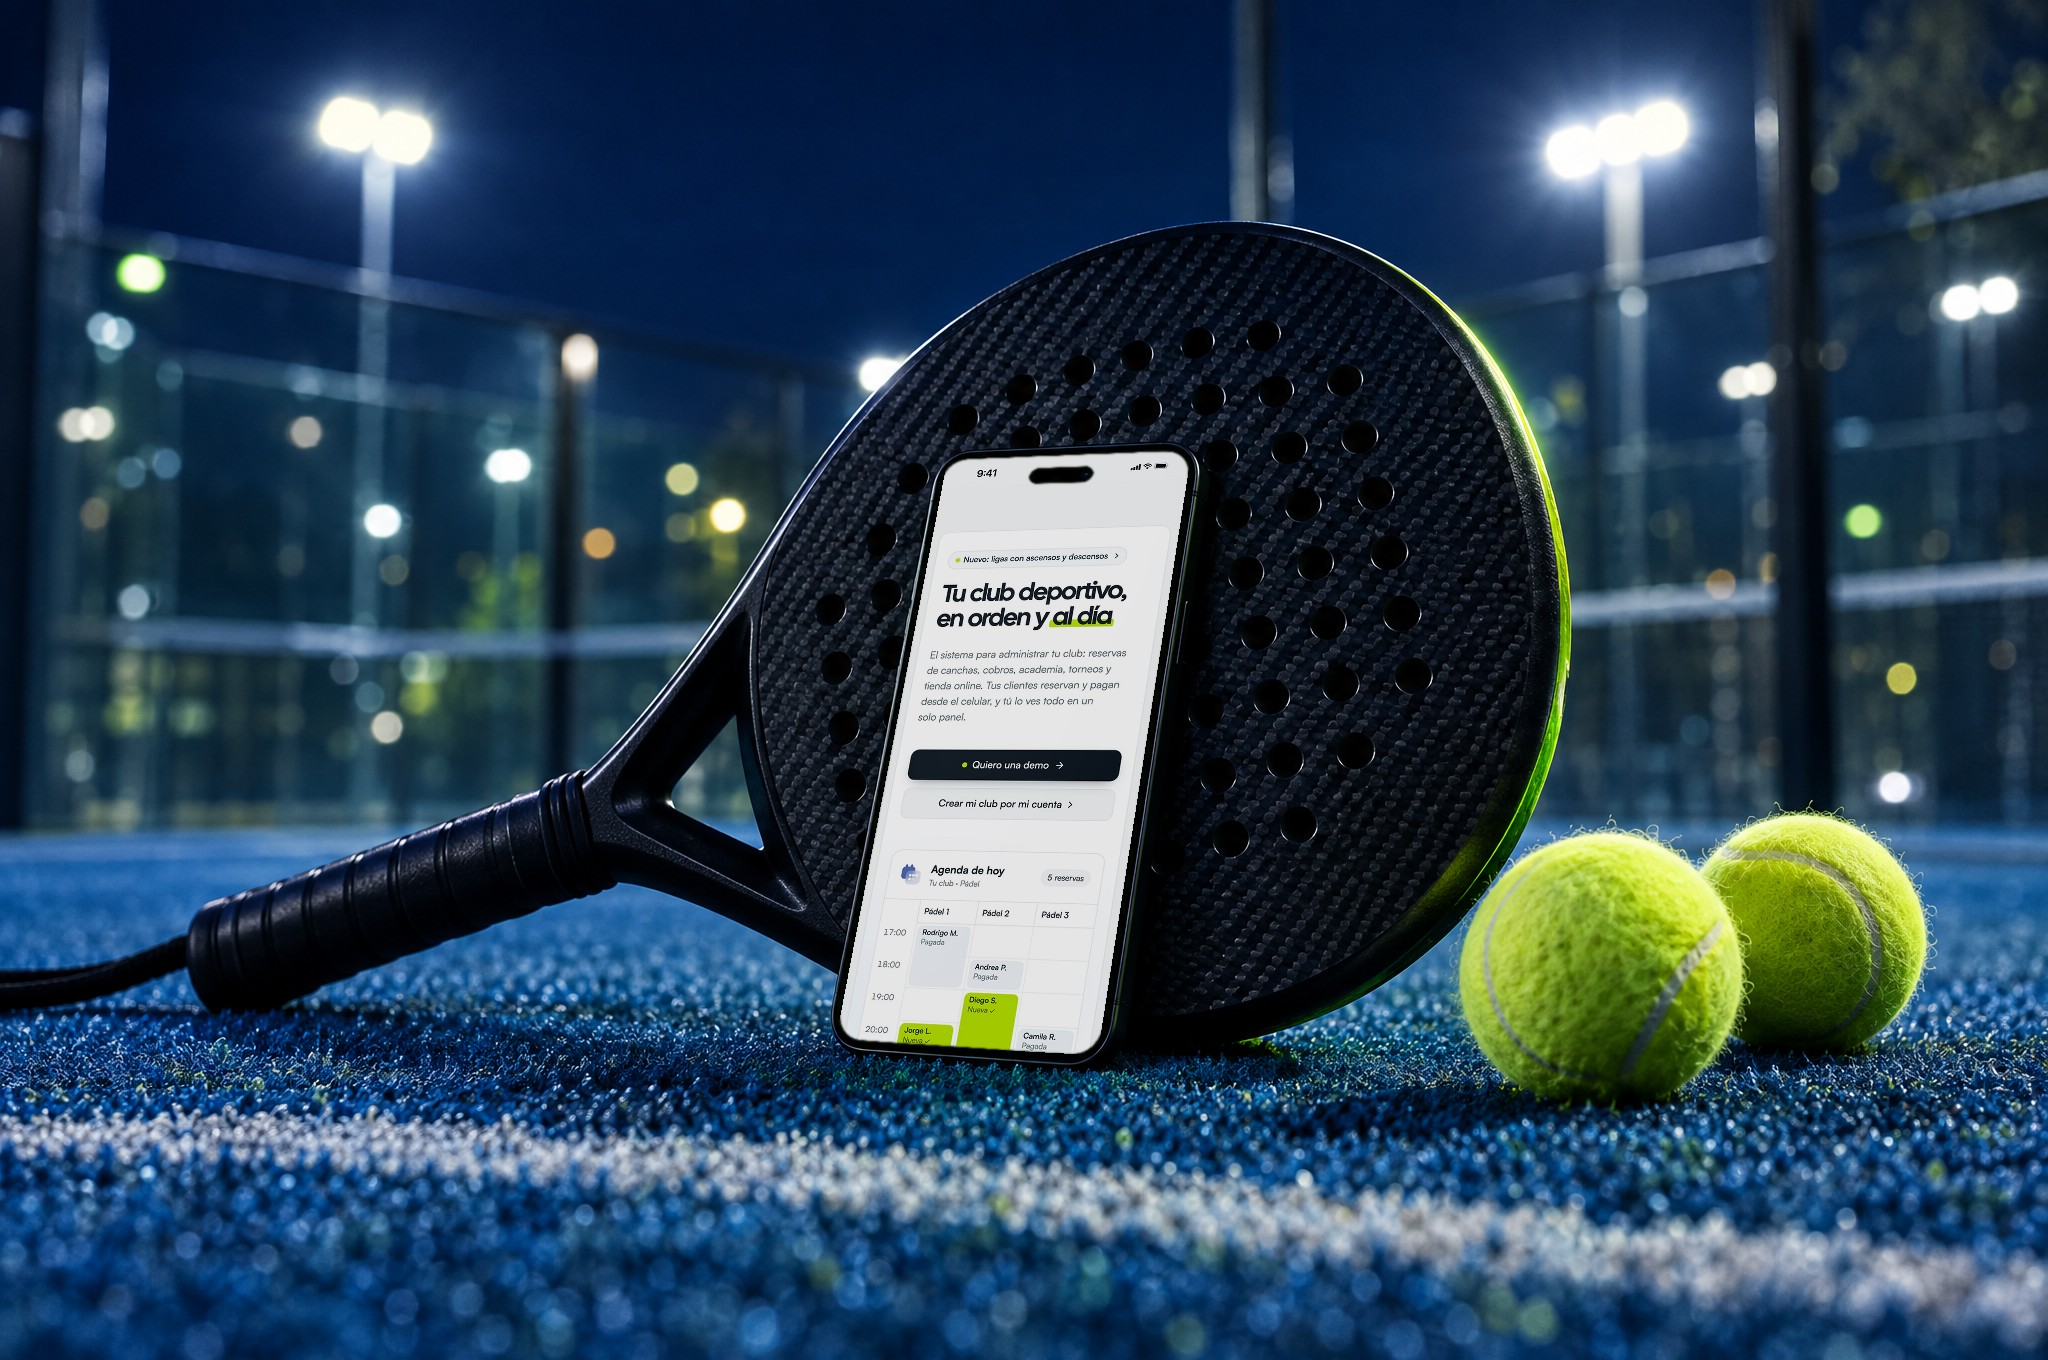
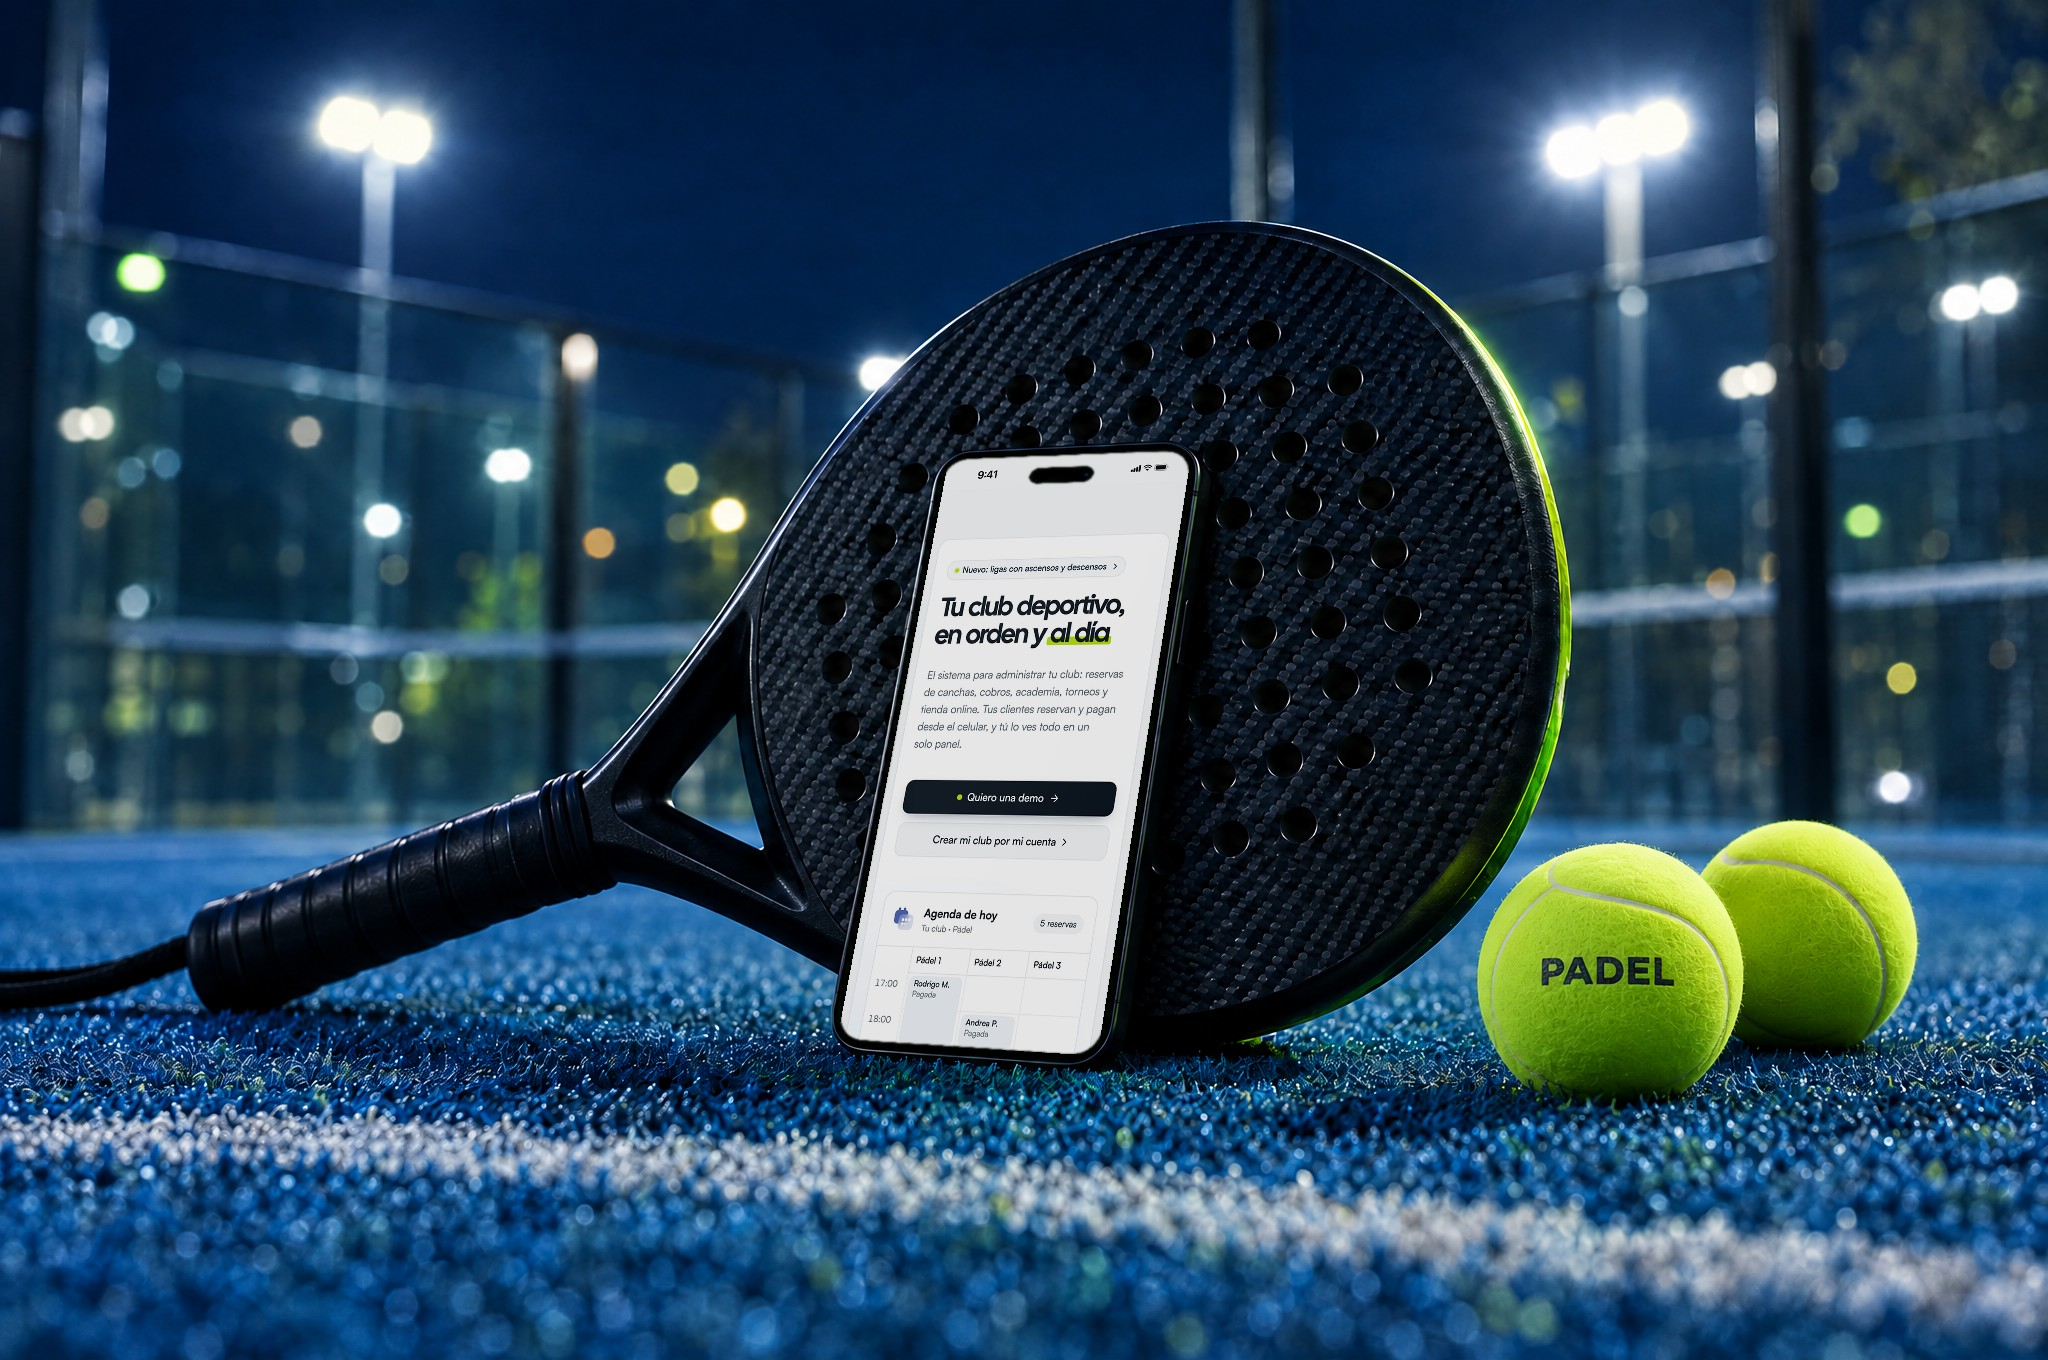
fix(portafolio): las portadas del portafolio pasan al home, y la pala de padel con pelotas de padel
Alexander prefiere las portadas del carrusel tambien en la seccion de destacados
del home, salvo Vendiq, que conserva su diagrama en perspectiva. Como las del
portafolio son 3:2 y la tarjeta es 16:10, no se referencian directas: se recortan
midiendo antes donde esta el mockup para no cortarlo (Rematch pierde 52 px arriba
y 28 abajo; LumioLearn y Bookit, 80 abajo, todo fondo).

La escena de Rematch tenia una pala de padel con pelotas de TENIS: pelusa larga
con hilos sueltos y costura gruesa y blanquecina. Corregida editando la escena
con su pantalla verde como referencia, no regenerandola, asi el cuadrilatero de
la pantalla quedo a 2 px del original y se reutilizo el encuadre.

Ademas, la pantalla del celular se armaba al aspecto del hueco medido (0.42) en
vez del aspecto real del telefono (0.462), que es el error que COMPOSITOR.md
documentaba al reves y que achataba la tipografia un 9 por ciento.

Fuera las portadas que quedaron sin uso.

diff --git a/src/components/axium/highlights-section.tsx b/src/components/axium/highlights-section.tsx
@@ -44,11 +44,10 @@ const HIGHLIGHTS: readonly [Highlight, ...Highlight[]] = [
     url: "https://rematch.pe",
     caseHref: "/casos-de-exito/rematch",
     domain: "rematch.pe",
-    // Cantidad: cuatro pistas de pádel de cristal a plomo, de noche, y encima la
-    // «Agenda de hoy» entera de rematch.pe — cuatro canchas, cinco reservas, las
-    // nuevas en lima. v7 (2026-09-25): la v6 (fondo liso + llaves + tarjetita)
-    // tenía la misma anatomía que Bookit
-    cover: "/images/highlights/rematch-v7.jpg",
+    // La misma portada que en /portafolio (Alexander, 2026-09-25: «me gustan más»),
+    // recortada a 16:10 para que la tarjeta no la corte sola: el celular sobre la
+    // pala de pádel, de noche, con el inicio móvil de rematch.pe
+    cover: "/images/highlights/rematch-v8.jpg",
     logo: {
       src: "/images/highlights/logos/rematch.png",
       width: 939,
@@ -60,7 +59,9 @@ const HIGHLIGHTS: readonly [Highlight, ...Highlight[]] = [
     url: "https://lumiolearn.com",
     caseHref: "/casos-de-exito/lumiolearn",
     domain: "lumiolearn.com",
-    cover: "/images/highlights/lumiolearn-v11.jpg",
+    // La misma portada que en /portafolio: la tableta en plano cenital sobre el
+    // escritorio violeta
+    cover: "/images/highlights/lumiolearn-v12.jpg",
     logo: {
       src: "/images/highlights/logos/lumiolearn.png",
       width: 757,
@@ -72,13 +73,8 @@ const HIGHLIGHTS: readonly [Highlight, ...Highlight[]] = [
     url: "https://bookit.com.pe",
     caseHref: "/casos-de-exito/bookit",
     domain: "bookit.com.pe",
-    // Singularidad, justo lo contrario de Rematch: una fila de losas de pino y
-    // UNA que sale encendida en verde —una hora que se aparta— con el selector
-    // real de bookit.com.pe apoyado en ella: servicio, profesional, día y horas
-    // libres, con el 16:30 elegido en brote. El chip verde y la losa encendida
-    // son el mismo gesto. v9 (2026-09-25): la v8 mostraba la cita ya hecha, que
-    // es el resultado y no la web donde se reserva
-    cover: "/images/highlights/bookit-v9.jpg",
+    // La misma portada que en /portafolio: la laptop sobre el mármol verde
+    cover: "/images/highlights/bookit-v10.jpg",
     logo: {
       src: "/images/highlights/logos/bookit-v2.png",
       width: 1600,

diff --git a/.claude/skills/portafolio-axium/CASO-REMATCH.md b/.claude/skills/portafolio-axium/CASO-REMATCH.md
@@ -253,3 +253,51 @@ a 3x) y `capturas-saas/rematch/piezas-2026-09/` (secciones por elemento, móvile
 
 Textos: alts de tipografía, paleta, portada, secciones, móviles, precios y Live reescritos, y el
 «Enfoque» ahora cuenta las dos puertas (rematch.pe para el club, Rematch Live para el jugador), en es/en/pt.
+
+## 10. Pelotas de tenis en una escena de pádel (2026-09-25)
+
+Alexander, sobre la portada: *«si es paleta de pádel, las bolas deben ser de pádel; si es de
+tenis, pelotas de tenis»*.
+
+**La incoherencia**: en `escenas/rematch-portada-raqueta.png` todo era pádel —pala maciza
+perforada de carbono, pista con paredes de vidrio, césped azul, y en la propia pantalla «Tu club ·
+Pádel» con las columnas Pádel 1/2/3— menos las dos pelotas, que eran **de tenis**: pelusa larga y
+desordenada con halo de hilos sueltos (pelota gastada de tenis), costura gruesa y blanquecina de
+tenis, y de hecho mal dibujada (en la de delante la costura era una raya que no cerraba).
+
+**El arreglo, en un solo tiro**: en vez de rehacer la escena se **editó** la escena verde original
+pasándola como `image_references` a `gpt_image_2_5` (high, 2k, 3:2) y pidiendo **solo** el cambio
+de las pelotas: pelusa corta y densa sin hilos sueltos, costura fina y de poco contraste, un poco
+más blandas, y la palabra **PADEL** impresa en la de delante. El prompt repite «reproduce la
+referencia exactamente» y marca como CRÍTICO que la pantalla siga siendo verde liso #00FF00, mate
+y vacía. Salió a la primera: el cuadrilátero verde quedó a ±2 px del original
+((950,462) (1190,452) (1097,1052) (839,1038) contra (948,463) (1190,452) (1097,1052) (838,1038)),
+así que la caja y el encuadre se reutilizaron tal cual. Escena nueva:
+`escenas/rematch-portada-raqueta-v2.png`. **Coste: 2,75 créditos** (no 3: el preflight `get_cost`
+de `gpt_image_2_5` high 2k da 2,75). Saldo 7,77 → 5,02. El segundo tiro del presupuesto no se gastó.
+
+**La pantalla, rehecha al aspecto real del celular.** De paso se aplicó la lección del mismo día
+(COMPOSITOR.md § «Celular en una escena»): `pantalla-celular-rematch.html` estaba a 1170×2786, el
+aspecto del **hueco medido** (0,42). El celular está girado sobre su eje vertical y ese 0,42 es el
+escorzo, que la homografía ya aplica; armarla así achataba la tipografía un 9 % y metía 879 px CSS
+de página, más de lo que cabe en un iPhone real. Ahora va a **1170×2532** (0,462, el aspecto real)
+y se compone con `--sin-recorte`: 794 px CSS de página, que es justo lo que muestra el viewport de
+un iPhone 15 Pro. Se ve menos agenda (cabecera + 17:00 y 18:00) pero la tipografía es la correcta.
+
+Comando final:
+
+```
+python3 scripts/componer_pantalla.py \
+  capturas-saas/escenas/rematch-portada-raqueta-v2.png pantalla.png salida.jpg \
+  --bordes --caja 800,420,1210,1090 --ancla arriba --brillo 0.9 --sin-recorte
+```
+
+Verificado: 0 píxeles de verde residual dentro de la caja, las cuatro esquinas redondeadas limpias
+y sin inclinación, y la pieza funciona a 2048 y a 360 (a 360 «PADEL» aún se lee). Sustituidos los
+tres archivos —`proyects/rematch/rematch-portada-v3.jpg`, `highlights/rematch-v8.jpg` (recorte
+16:10 desde y=52) y la copia `escenas/mock-rematch-portada-v3.jpg`— sin cambiar rutas, así que hubo
+que borrar `.next/cache/images` para que el dev server dejara de servir la versión vieja.
+
+**Regla que queda**: una escena generada tiene que ser coherente en *todo* el atrezo, no solo en el
+objeto principal. Antes de dar por buena una escena deportiva, mirar a zoom pelota, superficie,
+cancha del fondo y raqueta, y comprobar que sean del mismo deporte.

diff --git a/.claude/skills/portafolio-axium/HIGHLIGHTS-HOME.md b/.claude/skills/portafolio-axium/HIGHLIGHTS-HOME.md
@@ -375,3 +375,30 @@ Descartes de pieza: `bookit/pieza-reserva.png` (es la marca vieja, azul marino);
 elegir; `bookit-servicios.png` (la lista de servicios) — dice «catálogo», no «reserva». Las
 demos `tuconsultorio.bookit.com.pe` y `demo.bookit.com.pe` no resuelven, así que el selector del
 propio bookit.com.pe es la UI de reserva real disponible.
+
+#### Rematch v8 corregida el mismo día: pelotas de pádel, no de tenis (2026-09-25)
+
+`highlights/rematch-v8.jpg` es el recorte 16:10 (2048×1280 desde y=52) de la portada del carrusel,
+así que hereda cualquier arreglo de esa portada. Alexander: *«si es paleta de pádel, las bolas
+deben ser de pádel; si es de tenis, pelotas de tenis»*.
+
+La escena era toda de pádel —pala maciza perforada, pista de vidrio, césped azul— menos las dos
+pelotas, que eran de tenis: pelusa larga con halo de hilos sueltos y costura gruesa y blanquecina.
+Se editó la escena verde original en Higgsfield pasándola como referencia y pidiendo solo las
+pelotas (pelusa corta y densa, costura fina, y **PADEL** impreso en la de delante), conservando
+encuadre, luz y la pantalla verde. Un solo tiro, **2,75 créditos**. Detalle y comando en
+CASO-REMATCH.md § 10.
+
+Dos cosas que valen para el home:
+
+- **El recorte 16:10 desde y=52 sigue sirviendo**: no corta ni la parte alta de la pala ni las
+  pelotas, y a 360 px de ancho —el tamaño real de la tarjeta en el móvil— «PADEL» todavía se lee.
+  Es lo que hace que la corrección se note en el home y no solo en /portafolio.
+- **Reemplazar un archivo sin cambiar de nombre obliga a limpiar la caché**: `/_next/image` seguía
+  sirviendo la versión con pelotas de tenis hasta borrar `.next/cache/images`. Ya estaba en
+  COMPOSITOR.md; acá volvió a pasar.
+
+La pantalla del celular se rehízo además al aspecto real del dispositivo (1170×2532) en vez del
+hueco medido (0,42): la tipografía deja de salir achatada un 9 %. Se ve algo menos de la agenda,
+pero a 360 la agenda no era legible de todos modos y lo que carga la tarjeta es el titular, el
+botón oscuro y el lima.

diff --git a/.claude/skills/portafolio-axium/COMPOSITOR.md b/.claude/skills/portafolio-axium/COMPOSITOR.md
@@ -406,3 +406,25 @@ jugar» (Reserva una cancha / Entrena en una academia), que no estaba en ninguna
 Regla: el tramo se elige con la galería delante, no solo por lo bonito que se ve solo.
 Descartar también los tramos con un bloque vacío: el hero de Live tiene ~1000 px casi negros
 arriba y, a 460 px de pantalla en la pieza final, el celular se leía apagado.
+
+### Coherencia del atrezo: el deporte tiene que ser uno solo (2026-09-25)
+
+La portada de Rematch pasó dos revisiones con **pelotas de tenis junto a una pala de pádel**.
+Alexander: *«si es paleta de pádel, las bolas deben ser de pádel; si es de tenis, pelotas de
+tenis»*. El modelo, al pedirle "padel racket on a court", pone pelotas de stock de tenis: pelusa
+larga con halo de hilos sueltos y costura gruesa blanquecina.
+
+**Antes de dar por buena una escena, mirar a zoom cada objeto del atrezo** —pelota, superficie,
+cancha del fondo, raqueta— y comprobar que sean del mismo deporte. Vale igual para cualquier
+escena con utilería: si la marca es de un oficio, las herramientas tienen que ser de ese oficio.
+
+**Corregir editando, no regenerando.** Si la escena está bien salvo un objeto, se pasa **la escena
+verde original** como `medias` con rol `image_references` a `gpt_image_2_5` y se pide solo ese
+cambio, con la instrucción de reproducir la referencia exactamente y un bloque CRÍTICO que exija
+que la pantalla siga siendo verde liso #00FF00, mate y vacía. En Rematch salió a la primera y el
+cuadrilátero verde quedó a **±2 px** del original, así que `--caja`, `--brillo` y el encuadre se
+reutilizan tal cual y lo único que cambia en la imagen final es el objeto pedido.
+
+Dos detalles de coste: **`gpt_image_2_5` high 2k cuesta 2,75, no 3** (comprobado con
+`get_cost: true`, que no envía trabajo), y la referencia se sube con `media_upload` → `curl -X PUT`
+→ `media_confirm`; en `medias[].value` va el `media_id`, nunca la URL.
